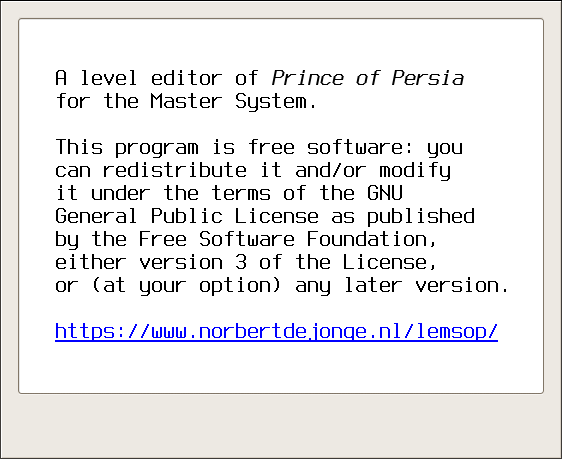
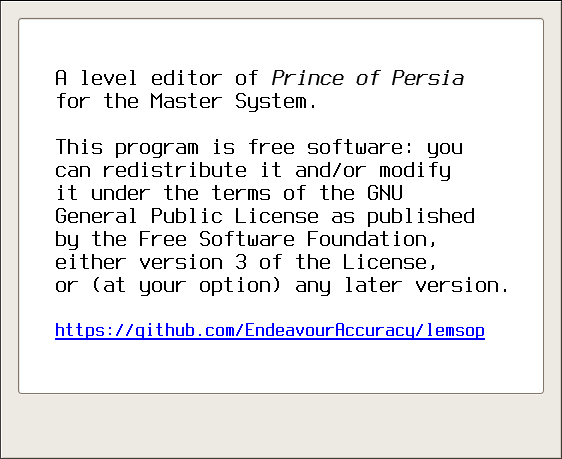
Version 1.0.

Changed region(s): [[0.0907, 0.7015, 0.8772, 0.7625]]

diff --git a/lemsop.c b/lemsop.c
@@ -1,5 +1,6 @@
-/* lemsop v0.8b (May 2020)
- * Copyright (C) 2019-2020 Norbert de Jonge <mail@norbertdejonge.nl>
+/* SPDX-License-Identifier: GPL-3.0-or-later */
+/* lemsop v1.0 (December 2022)
+ * Copyright (C) 2019-2022 Norbert de Jonge <nlmdejonge@gmail.com>
  *
  * This program is free software: you can redistribute it and/or modify it
  * under the terms of the GNU General Public License as published by the Free
@@ -65,8 +66,8 @@
 #define EXIT_NORMAL 0
 #define EXIT_ERROR 1
 #define EDITOR_NAME "lemsop"
-#define EDITOR_VERSION "v0.8b (May 2020)"
-#define COPYRIGHT "Copyright (C) 2020 Norbert de Jonge"
+#define EDITOR_VERSION "v1.0 (December 2022)"
+#define COPYRIGHT "Copyright (C) 2022 Norbert de Jonge"
 #define SMS_DIR "sms"
 #define BACKUP SMS_DIR SLASH "backup.bak"
 #define MAX_PATHFILE 300
@@ -719,7 +720,8 @@ void LoadLevel (int iLevel)
 		ReadFromFile (iFd, "", 2, sData);
 		if ((sData[0] != 0xC9) || (sData[1] != 0x60))
 		{
-			printf ("[ WARN ] 0x60C9 not found: 0x%02X%02X!\n", sData[1], sData[0]);
+			printf ("[ WARN ] Level %i, 0x60C9 not found: 0x%02X%02X!\n",
+				iLoopLevel, sData[1], sData[0]);
 		}
 
 		/*** Tile graphics. ***/
@@ -807,7 +809,8 @@ void LoadLevel (int iLevel)
 			} else {
 				if ((iLoopLevel != 14) || (iLoopRoom < 9))
 				{
-					printf ("[ WARN ] Incorrect elements offset!\n");
+					printf ("[ WARN ] Level %i: incorrect elements offset!\n",
+						iLoopLevel);
 				}
 				arOffsetsElements[iLoopRoom] = 0;
 			}
@@ -864,7 +867,7 @@ void LoadLevel (int iLevel)
 			iOffsetOld = iOffset;
 			iOffset = arOffsetsElements[iLoopRoom];
 			if (iOffset != iOffsetOld)
-				{ printf ("[ WARN ] Offset difference!\n"); }
+				{ printf ("[ WARN ] Level %i: offset difference!\n", iLoopLevel); }
 			lseek (iFd, iOffset, SEEK_SET);
 
 			iNextRoom = 0;
@@ -2361,7 +2364,7 @@ void InitScreen (void)
 					}
 					ShowScreen (iScreen);
 					break;
-				case SDL_KEYDOWN: /*** https://wiki.libsdl.org/SDL_Keycode ***/
+				case SDL_KEYDOWN: /*** https://wiki.libsdl.org/SDL2/SDL_Keycode ***/
 					switch (event.key.keysym.sym)
 					{
 						case SDLK_F1: if (iScreen == 1) { Help(); } break;
@@ -3476,19 +3479,19 @@ void ShowScreen (int iScreenS)
 /*****************************************************************************/
 {
 	char sLevel[MAX_TEXT + 2];
-	char arText[2 + 2][MAX_TEXT + 2];
+	char arText[9 + 2][MAX_TEXT + 2];
 	int iUnusedRooms;
 	int iXShow, iYShow;
 	char sShowRoom[MAX_TEXT + 2];
 	int iToRoom;
 	int iElem, iElemX, iElemY;
-	char arTextB1[1 + 2][MAX_TEXT + 2];
-	char arTextB2[1 + 2][MAX_TEXT + 2];
-	char arTextB3[1 + 2][MAX_TEXT + 2];
-	char arTextB4[1 + 2][MAX_TEXT + 2];
-	char arTextB5[1 + 2][MAX_TEXT + 2];
-	char arTextB6[1 + 2][MAX_TEXT + 2];
-	char arTextB7[1 + 2][MAX_TEXT + 2];
+	char arTextB1[9 + 2][MAX_TEXT + 2];
+	char arTextB2[9 + 2][MAX_TEXT + 2];
+	char arTextB3[9 + 2][MAX_TEXT + 2];
+	char arTextB4[9 + 2][MAX_TEXT + 2];
+	char arTextB5[9 + 2][MAX_TEXT + 2];
+	char arTextB6[9 + 2][MAX_TEXT + 2];
+	char arTextB7[9 + 2][MAX_TEXT + 2];
 	int iByte1, iByte2, iByte3, iByte4, iByte5;
 	char cDir;
 	SDL_Texture *img;
@@ -4645,7 +4648,7 @@ void CustomRenderCopy (SDL_Texture* src, char *sImageInfo, SDL_Rect* srcrect,
 void ShowPopUpSave (void)
 /*****************************************************************************/
 {
-	char arText[2 + 2][MAX_TEXT + 2];
+	char arText[9 + 2][MAX_TEXT + 2];
 
 	/*** faded background ***/
 	ShowImage (imgfaded, 0, 0, "imgfaded", ascreen, iScale, 1);
@@ -5127,7 +5130,7 @@ void ShowTile (int iRoom, int iRow, int iCol)
 	char sShowTile[MAX_TEXT + 2];
 	int iRowUse;
 	int iTile;
-	char arText[1 + 2][MAX_TEXT + 2];
+	char arText[9 + 2][MAX_TEXT + 2];
 
 	iRowUse = iRow;
 	iX = ((iCol - 1) * 32) + 25;
@@ -6551,7 +6554,7 @@ void Help (void)
 				case SDL_MOUSEMOTION:
 					iXPos = event.motion.x;
 					iYPos = event.motion.y;
-					if (InArea (55, 323, 55 + 443, 323 + 19) == 1) /*** URL ***/
+					if (InArea (55, 323, 55 + 430, 323 + 17) == 1) /*** URL ***/
 					{
 						SDL_SetCursor (curHand);
 					} else {
@@ -6572,8 +6575,8 @@ void Help (void)
 					{
 						if (InArea (460, 410, 460 + 85, 410 + 32) == 1) /*** OK ***/
 							{ iHelp = 0; }
-						if (InArea (55, 323, 55 + 443, 323 + 19) == 1) /*** URL ***/
-							{ OpenURL ("https://www.norbertdejonge.nl/lemsop/"); }
+						if (InArea (55, 323, 55 + 430, 323 + 17) == 1) /*** URL ***/
+							{ OpenURL ("https://github.com/EndeavourAccuracy/lemsop"); }
 					}
 					ShowHelp();
 					break;
@@ -6904,7 +6907,7 @@ void EXE (void)
 void ShowEXE (void)
 /*****************************************************************************/
 {
-	char arText[1 + 2][MAX_TEXT + 2];
+	char arText[9 + 2][MAX_TEXT + 2];
 	SDL_Texture *img;
 
 	/*** Used for looping. ***/
@@ -7107,7 +7110,11 @@ void CenterNumber (SDL_Renderer *screen, int iNumber, int iX, int iY,
 	} else {
 		snprintf (sText, MAX_TEXT, "%02X", iNumber);
 	}
-	message = TTF_RenderText_Blended_Wrapped (font20, sText, fore, 0);
+	/* The 100000 is a workaround for 0 being broken. SDL devs have fixed that
+	 * see e.g. https://hg.libsdl.org/SDL_ttf/rev/72b8861dbc01 but
+	 * Ubuntu et al. still ship older sdl2-ttf versions.
+	 */
+	message = TTF_RenderText_Blended_Wrapped (font20, sText, fore, 100000);
 	messaget = SDL_CreateTextureFromSurface (screen, message);
 	if (iHex == 0)
 	{
